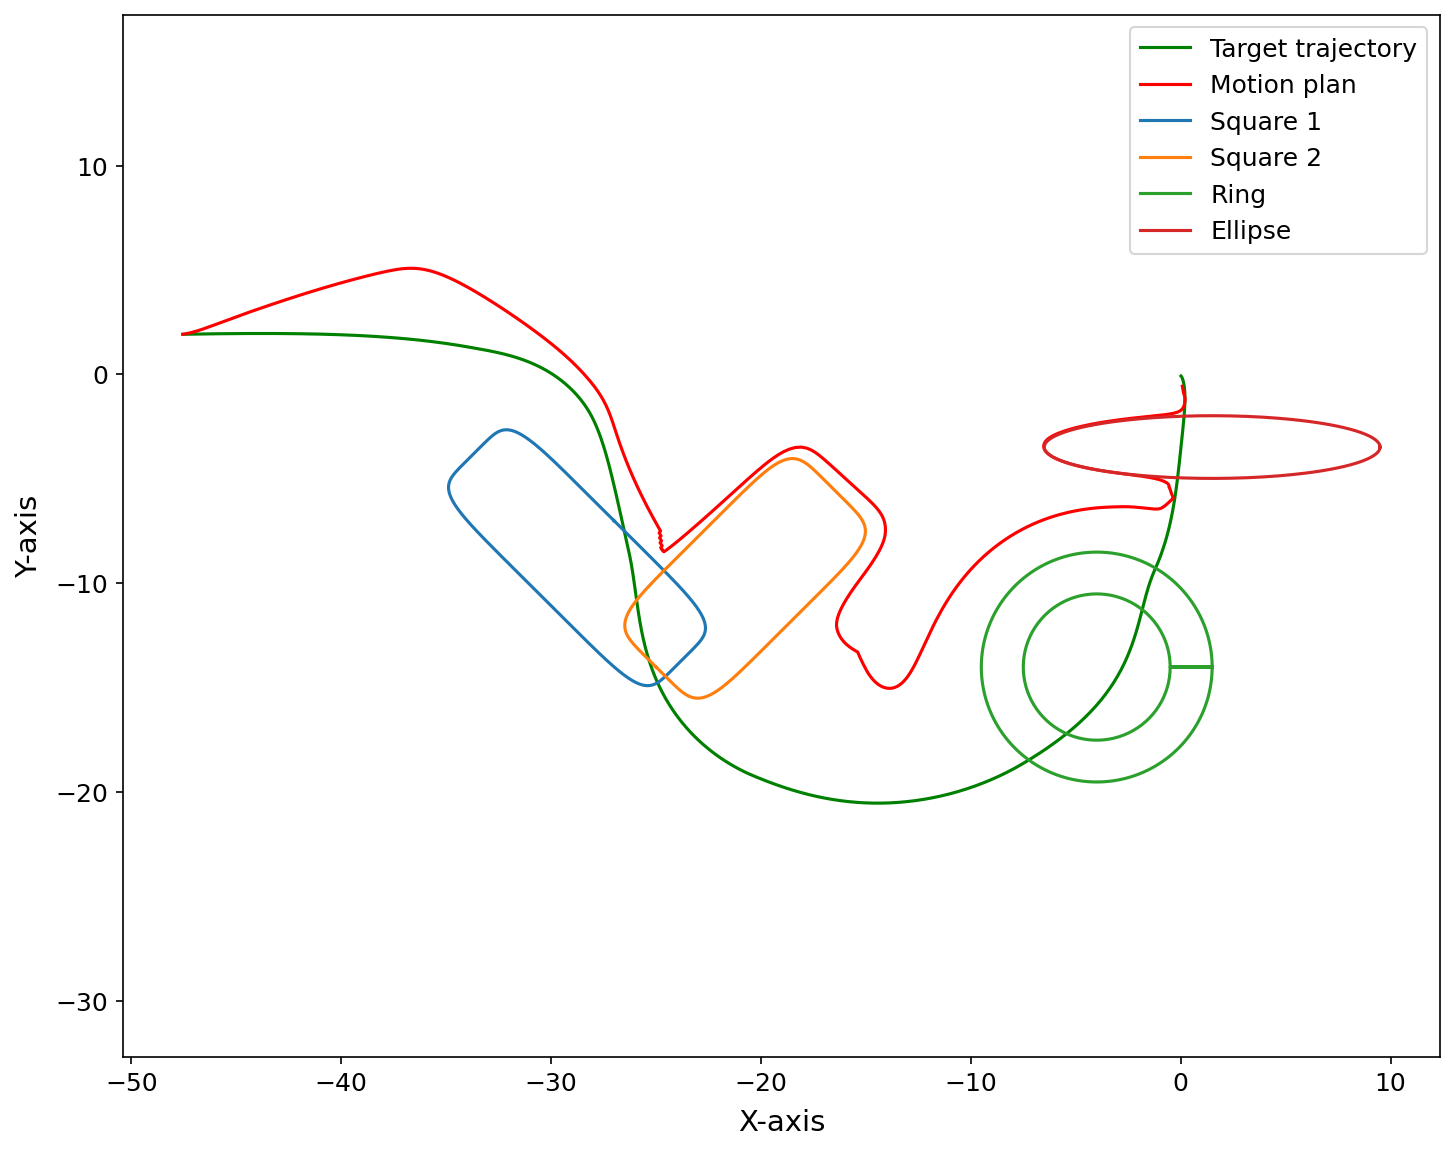
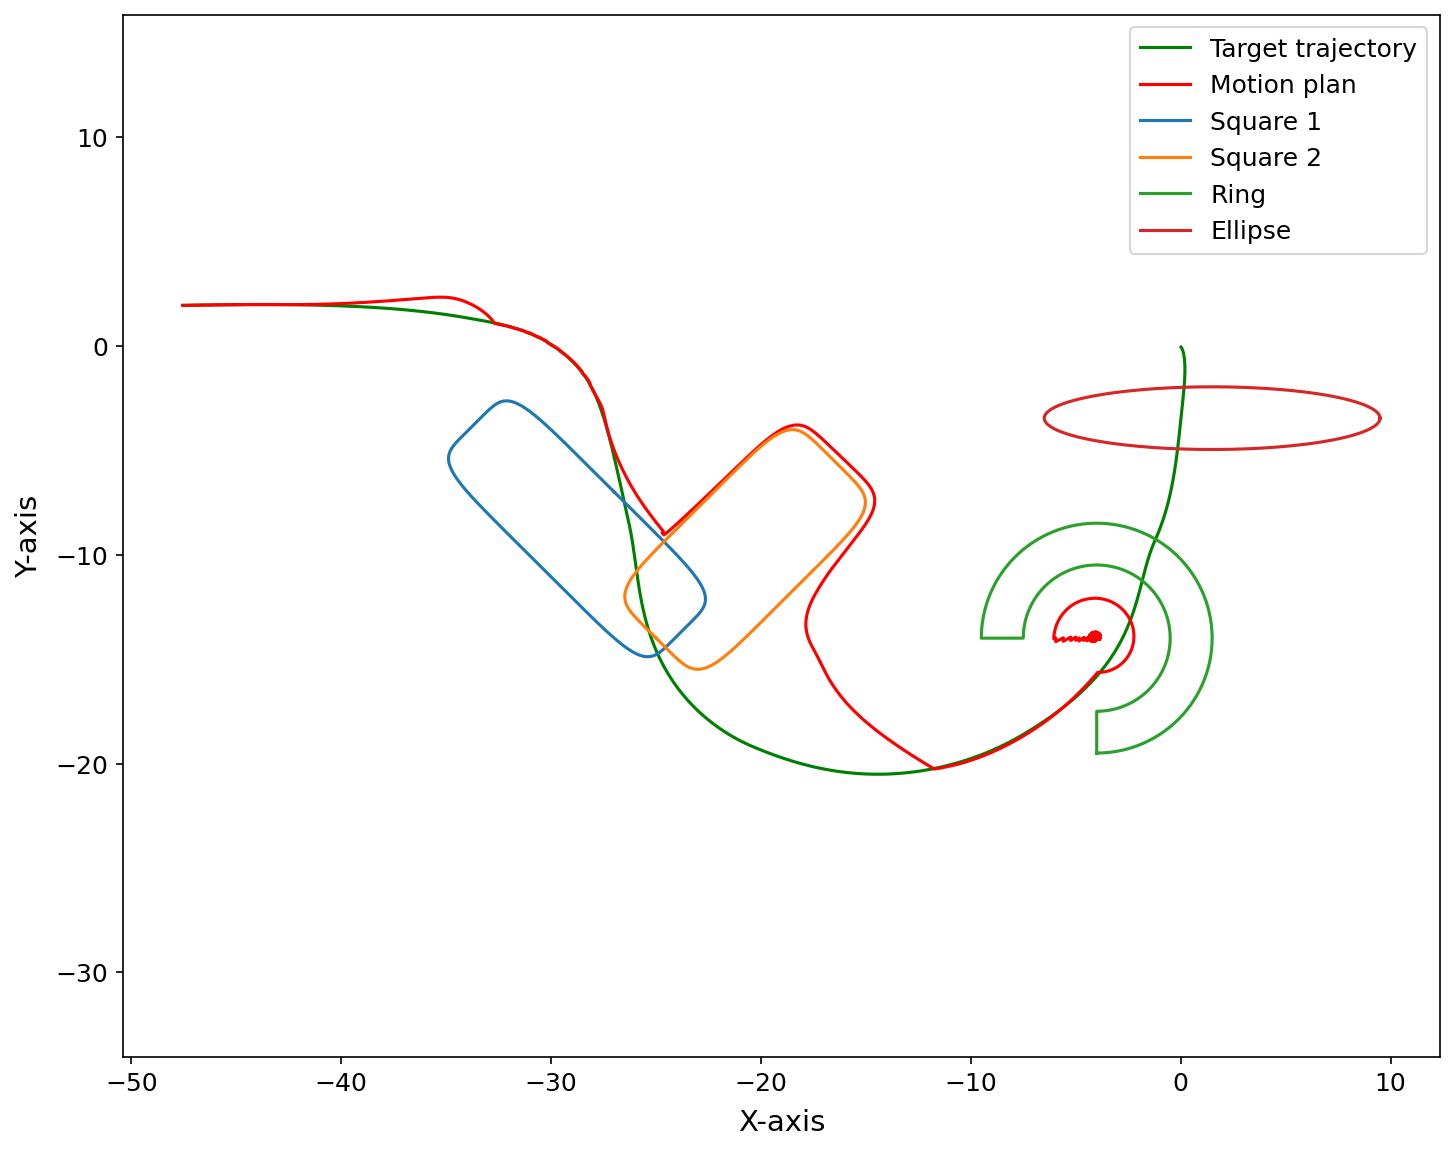
update nominal modulation to replace CBF

diff --git a/scripts/lasa_2d_node_on_manifold.py b/scripts/lasa_2d_node_on_manifold.py
@@ -110,10 +110,15 @@ def square_xy(xc, yc, a, b, angle, p=6, n=300):
     return xs, ys
 
 
-def ring_sector_xy(xc, yc, ri, ro, n=180):
-    th = np.linspace(0, 2 * np.pi, n)
-    xo = xc + ro * np.cos(th);  yo = yc + ro * np.sin(th)
-    xi = xc + ri * np.cos(th[::-1]); yi = yc + ri * np.sin(th[::-1])
+def ring_sector_xy(xc, yc, ri, ro, n=180,
+                   open_start=-np.pi/4, open_end=np.pi/4):
+    """Draw a 3/4 ring (C-shape). Opening spans [open_start, open_end] (rad).
+    Closed arc goes counterclockwise from open_end to open_start + 2π."""
+    th = np.linspace(open_end, open_start + 2 * np.pi, n)
+    xo = xc + ro * np.cos(th)
+    yo = yc + ro * np.sin(th)
+    xi = xc + ri * np.cos(th[::-1])
+    yi = yc + ri * np.sin(th[::-1])
     return (np.concatenate([xo, xi, xo[:1]]),
             np.concatenate([yo, yi, yo[:1]]))
 
@@ -205,9 +210,21 @@ def main():
     def _gamma_ellipse(x):
         return ((x[0] - xe) / ae) ** 2 + ((x[1] - ye) / be) ** 2
 
-    def _gamma_ring_outer(x):
+    # 3/4-ring opening: lower-left, ±45° from the -135° direction.
+    _ring_open_dir = jnp.array([-1.0 / np.sqrt(2), -1.0 / np.sqrt(2)])
+    _ring_open_cos = float(np.cos(np.pi / 4))   # ≈ 0.707, same ±45° half-width
+
+    def _gamma_ring_3quarter(x):
         diff = x - _cc
-        return jnp.sqrt(diff @ diff + _eps) / r_out
+        r = jnp.sqrt(diff @ diff + _eps)
+        gamma_outer = r / r_out
+        diff_norm = diff / (r + _eps)
+        cos_a = diff_norm @ _ring_open_dir
+        # Hard cutoff: open sector (cos_a > threshold) → Gamma=100 (no obstacle);
+        # closed sector → r/r_out as usual.
+        # jnp.where gradient is 0 in the open branch, but w_mod=0 there anyway
+        # (Gamma=100 >> 1+mod_margin), so M_eff=I and the zero gradient is harmless.
+        return jnp.where(cos_a > _ring_open_cos, jnp.array(100.0), gamma_outer)
 
     def gamma_combined(x):
         # Use min over individual Γᵢ as the combined representation.
@@ -217,7 +234,7 @@ def main():
         # straight-through of the argmin element, which is correct geometrically.
         g1 = _gamma_sq(x, _c1, semi_major_axis1, semi_minor_axis1, angle1)
         g2 = _gamma_sq(x, _c2, semi_major_axis2, semi_minor_axis2, angle2)
-        g3 = _gamma_ring_outer(x)
+        g3 = _gamma_ring_3quarter(x)
         g4 = _gamma_ellipse(x)
         return jnp.min(jnp.stack([g1, g2, g3, g4]))
 
@@ -227,7 +244,7 @@ def main():
     # Individual Gamma JIT functions for per-obstacle blend weights
     _gamma_sq1_jit  = jax.jit(lambda x: _gamma_sq(x, _c1, semi_major_axis1, semi_minor_axis1, angle1))
     _gamma_sq2_jit  = jax.jit(lambda x: _gamma_sq(x, _c2, semi_major_axis2, semi_minor_axis2, angle2))
-    _gamma_ring_jit = jax.jit(_gamma_ring_outer)
+    _gamma_ring_jit = jax.jit(_gamma_ring_3quarter)
     _gamma_ell_jit  = jax.jit(_gamma_ellipse)
 
     # ── On-manifold modulation matrix M(x) ───────────────────────────────────
@@ -240,6 +257,9 @@ def main():
     def compute_modulation_matrix(x):
         """Returns M(x) using diagonal modulation (no φ term)."""
         Gamma, grad_Gamma = _gamma_vg(x)
+        # Clamp Gamma ≥ 1 so λ₁ = 1-1/Γ stays ≥ 0.  Discrete Euler steps can
+        # overshoot the boundary (Γ drops below 1); without the clamp λ₁ < 0
+        # reverses the normal component and pushes the robot deeper inside.
         norm_g = jnp.sqrt(grad_Gamma @ grad_Gamma + 1e-12)
         n_hat  = grad_Gamma / norm_g
         e1     = jnp.array([-n_hat[1], n_hat[0]])
@@ -268,15 +288,20 @@ def main():
     alpha_L    = 4.0
     clf_margin = 0.3    # CLF suppressed when Gamma < 1+clf_margin
     k_goal     = 2.0   # goal-directed DS gain
-    k_rot      = 6.0   # CW rotation gain around ellipse center
+    k_rot      = 6.0   # CW  rotation gain around ellipse center
+    k_ring     = 4.0   # CCW rotation gain around ring center (guides robot over the top)
     max_steps  = 5000
     reach_tol  = 0.5
 
     # Per-obstacle goal-blend margins:
     # sq1/sq2 get a tight margin so the nominal NODE DS dominates most of the time.
-    sq_blend_margin   = 0.3
-    ring_blend_margin = 1.0
-    ell_blend_margin  = 1.0
+    sq_blend_margin   = 0.1
+    ring_blend_margin = 0.5   # larger margin: CCW blend activates before robot gets too close
+    ell_blend_margin  = 0.1
+
+    # Soft modulation activation margin: M(x) blends linearly to I when
+    # Γ > 1 + mod_margin, so the nominal DS is unaffected far from obstacles.
+    mod_margin = 1.5
 
     # Goal: reference trajectory endpoint; ellipse center for CW rotation
     xgoal  = xref[-1]
@@ -323,21 +348,32 @@ def main():
         w_total = w1 + w2 + w3 + w4 + 1e-9
 
         v_goal_d = k_goal * (xgoal - x_t)
-        # CW rotation field around ellipse center: v_cw = [(y-ye), -(x-xe)].
-        # Below ellipse center (y < ye): pure CW rotation gives e₁·v < 0
-        # (leftward tangential) → robot sweeps left around the bottom arc.
-        # Above ellipse center (y ≥ ye): goal-directed DS already has e₁·v < 0
-        # at the upper-left arc (goal is upper-right from there) → natural exit.
-        # Blend smoothly between the two using w_cw ∈ [0,1].
+
+        # Ring: goal-directed toward an escape point outside the opening.
+        # CCW rotation fails at the ring center (zero field); a fixed attraction
+        # point past the opening works for any robot position inside/near the ring.
+        cx_ring = float(np.asarray(c)[0])   # -4.0
+        cy_ring = float(np.asarray(c)[1])   # -14.0
+        escape_pt = jnp.array([cx_ring + (r_out + 3.0) * float(_ring_open_dir[0]),
+                                cy_ring + (r_out + 3.0) * float(_ring_open_dir[1])])
+        v_ccw_ring = k_ring * (escape_pt - x_t)
+
+        # Ellipse: CW rotation around ellipse center.
         v_cw_pure = k_rot * jnp.array([(x_t[1] - ye_val), -(x_t[0] - xe_val)])
         w_cw = max(0.0, min(1.0, (ye_val - float(x_t[1])) / float(be)))
         v_blend_ell = w_cw * v_cw_pure + (1.0 - w_cw) * v_goal_d
 
-        v_blend_target = ((w1 + w2 + w3) * v_goal_d + w4 * v_blend_ell) / w_total
+        v_blend_target = ((w1 + w2) * v_goal_d + w3 * v_ccw_ring + w4 * v_blend_ell) / w_total
         v_input  = (1.0 - w_goal) * v_clf + w_goal * v_blend_target
 
         # ── Step 3: On-manifold modulation (outer layer, diagonal M, no φ) ────
-        v_final, Gamma = _apply_mod(x_t, v_input)
+        # Soft activation: blend M(x) → I as Γ → 1 + mod_margin.
+        # When Γ > 1 + mod_margin: w_mod = 0 → M_eff = I (no effect).
+        # When Γ = 1 (boundary):   w_mod = 1 → M_eff = M(x) (full modulation).
+        M_mat, Gamma = compute_modulation_matrix(x_t)
+        w_mod = max(0.0, min(1.0, (1.0 + mod_margin - float(Gamma)) / mod_margin))
+        M_eff = w_mod * M_mat + (1.0 - w_mod) * jnp.eye(2)
+        v_final = M_eff @ v_input
 
         # ── Euler step ────────────────────────────────────────────────────────
         xnext = x_t + v_final * dti
@@ -362,7 +398,8 @@ def main():
     x2sq, y2sq = square_xy(center2[0], center2[1],
                             semi_major_axis2, semi_minor_axis2, angle2)
     xr, yr = ring_sector_xy(float(np.asarray(c)[0]), float(np.asarray(c)[1]),
-                              r_in, r_out)
+                              r_in, r_out,
+                              open_start=-np.pi, open_end=-np.pi/2)
     _te = np.linspace(0, 2 * np.pi, 200)
 
     ax.plot(x1sq, y1sq, label="Square 1")
@@ -405,12 +442,10 @@ def main():
     ax.plot(model_y[-1, 0], model_y[-1, 1], marker="o", markersize=36, c="darkblue")
 
     _cx, _cy = float(np.asarray(c)[0]), float(np.asarray(c)[1])
-    _th = np.linspace(0, 2 * np.pi, 180)
-    _xo = _cx + r_out * np.cos(_th); _yo = _cy + r_out * np.sin(_th)
-    _xi = _cx + r_in  * np.cos(_th[::-1]); _yi = _cy + r_in  * np.sin(_th[::-1])
+    _xr, _yr = ring_sector_xy(_cx, _cy, r_in, r_out,
+                               open_start=-np.pi, open_end=-np.pi/2)
 
-    ax.fill(np.concatenate([_xo, _xi]), np.concatenate([_yo, _yi]),
-            color="lightblue", alpha=1.0)
+    ax.fill(_xr, _yr, color="lightblue", alpha=1.0)
     ax.fill(xe + ae * np.cos(_te), ye + be * np.sin(_te),
             color="lightblue", alpha=1.0)
     ax.fill(x1sq, y1sq, color="lightblue", alpha=1.0)
@@ -447,8 +482,7 @@ def main():
     ax.plot(model_y[0, 0],  model_y[0, 1],  marker="o", markersize=36, c="saddlebrown")
     ax.plot(model_y[-1, 0], model_y[-1, 1], marker="o", markersize=36, c="darkblue")
 
-    ax.fill(np.concatenate([_xo, _xi]), np.concatenate([_yo, _yi]),
-            color="lightblue", alpha=1.0)
+    ax.fill(_xr, _yr, color="lightblue", alpha=1.0)
     ax.fill(xe + ae * np.cos(_te), ye + be * np.sin(_te),
             color="lightblue", alpha=1.0)
     ax.fill(x1sq, y1sq, color="lightblue", alpha=1.0)
